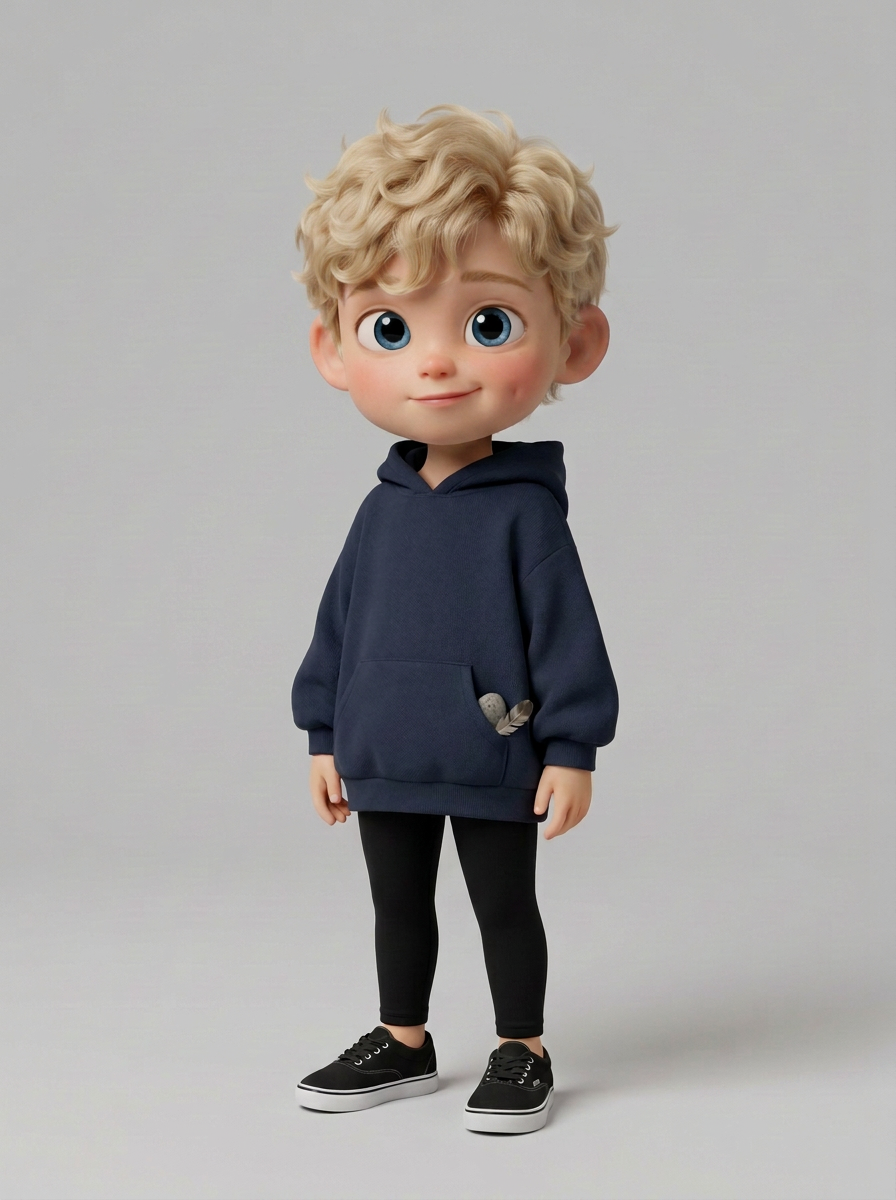
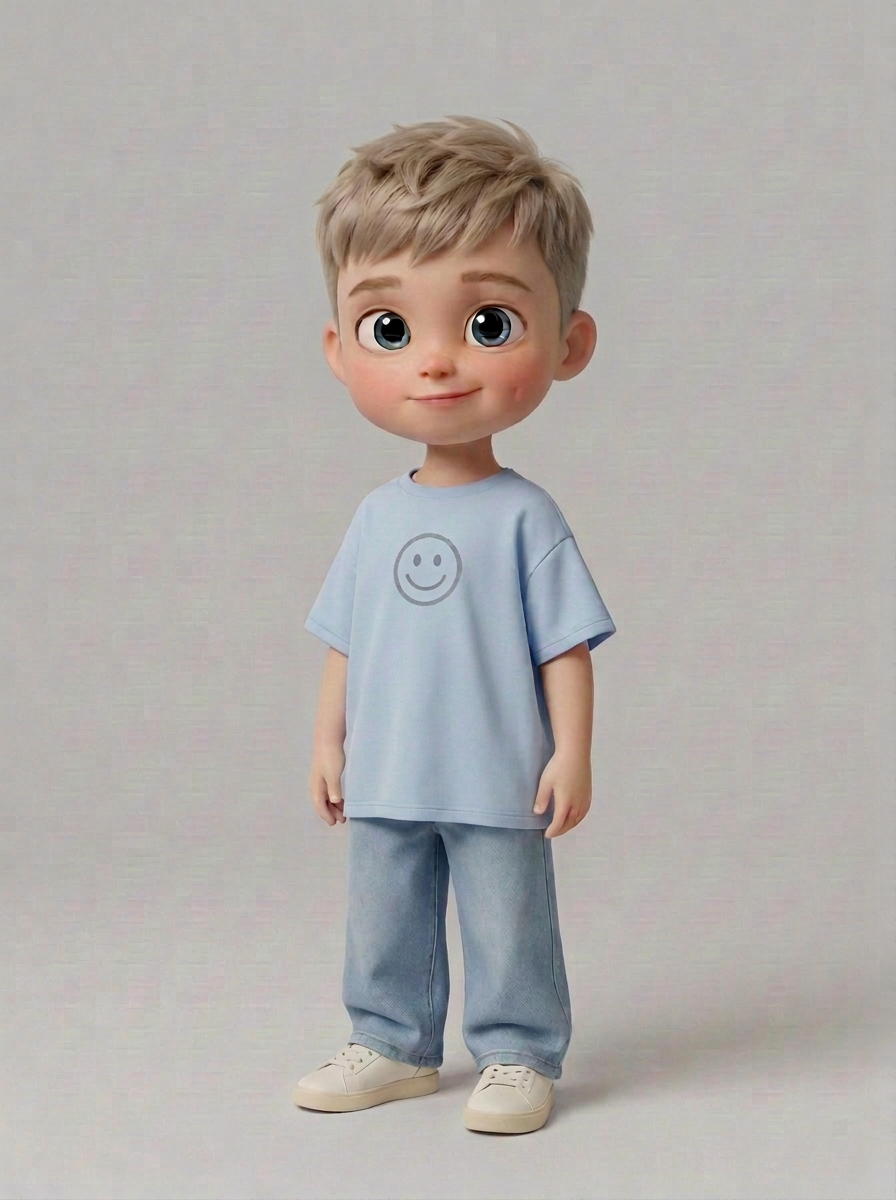
Kanon Olka wersja 2: krótkie proste włosy i koszulka baby blue
Nowe obrazy kanoniczne (kanon, obrót, miny) i przepisana sekcja Runway w karcie:
inne identyfikatory zadań, prompt bazowy pod nowy wygląd, historia obu wersji
i stan referencji (@olek_v1 zostawione na wszelki wypadek).

Poprawki wynikające ze zmiany: w indeksie postaci kapelusz i czapka są opisane
jako garderoba spoza kanonu, a w karcie Zuzi zniknęło porównanie jej włosów
do włosów Olka, bo Olek nie ma już loków.

Changed region(s): [[0.3125, 0.3392, 0.7188, 0.9558], [0.3125, 0.0925, 0.6875, 0.3392], [0.5938, 0.3083, 0.6562, 0.3392]]

diff --git a/postacie/olek/olek.md b/postacie/olek/olek.md
@@ -15,14 +15,22 @@ Najwyższy z grupy, spokojny obserwator z kieszeniami pełnymi skarbów, który 
 ## Wygląd
 
 - Najwyższy z czwórki, szczupły.
-- Blond włosy, delikatnie kręcone: krótkie boki, dłuższa góra, loczki z przodu, często w „artystycznym nieładzie”.
-- Owalna twarz, niebieskie oczy, czasem rumieńce, dołeczek w lewym policzku.
+- Włosy krótkie i proste, w chłodnym jasnym blondzie: krótko ścięte boki i tył, krótsza teksturowana góra zaczesana do przodu.
+- Owalna twarz, niebieskie oczy, czasem rumieńce, dołeczek w lewym policzku. Uszy przylegają do głowy.
 
 ## Ubiór
 
-- Czarne trampki typu vans (stały element).
-- Czarne legginsy i szeroka bluza z kapturem albo luźna koszulka oversize, czasem „cool dres” (spodnie plus bluza).
-- Czapka z daszkiem lub kapelusz typu bucket (stały element).
+**Strój kanoniczny** (to, co widać na `olek-kanon.png`, obowiązuje w odcinkach):
+
+- Luźna koszulka oversize w kolorze baby blue, z małym szarym nadrukiem buźki na piersi, wypuszczona na spodnie.
+- Jasne jeansy z szeroką prostą nogawką.
+- Jasne, kremowe trampki low-top, bez logo.
+
+**Z karty od autorki** (garderoba poza kanonem, do wariantów i innych scen):
+
+- Czarne trampki typu vans.
+- Czarne legginsy i szeroka bluza z kapturem, czasem „cool dres” (spodnie plus bluza).
+- Czapka z daszkiem lub kapelusz typu bucket.
 - Ulubione kolory: czarny, stonowane, niebieski, zielony.
 
 ## Co lubi robić
@@ -94,7 +102,7 @@ Katalog postaci w Runway, projekt **fairyTale** (konto Piotr, team `parciszewski
 
 | Referencja | Co to jest | Plik w repo | Asset w projekcie |
 |---|---|---|---|
-| `@olek` | obraz kanoniczny: cała sylwetka, trzy czwarte, neutralne tło, bez nakrycia głowy | `olek-kanon.png` | `olek-kanon` |
+| `@olek` | obraz kanoniczny: cała sylwetka, na wprost, neutralne tło, bez nakrycia głowy | `olek-kanon.png` | `olek-kanon` |
 | `@olek_obrot` | obrót: przód, bok, tył | `olek-obrot.png` | `olek-obrot` |
 | `@olek_miny` | plansza sześciu min: spokój z dołeczkiem, ciekawość, „Ej, patrzcie!”, namysł, smutek, mina niejadka | `olek-miny.png` | `olek-miny` |
 
@@ -102,20 +110,28 @@ Nazwy referencji w Runway nie mogą mieć myślników (Runway je wycina), stąd 
 
 **Zasada.** Każdy nowy obraz lub ujęcie z Olkiem generuje się z referencją `@olek` (do scen zbiorowych także z `@olek_obrot`), nigdy z samego opisu tekstowego. Obrót i miny powstały z kanonu.
 
-**Nakrycie głowy.** Kanon jest bez czapki (decyzja z 2026-09-09). Karta mówi, że czapka z daszkiem lub kapelusz bucket to stały element; do scen w czapce trzeba osobnej referencji (do zrobienia, gdy autorka potwierdzi, kiedy Olek ją nosi).
+**Nakrycie głowy.** Kanon jest bez czapki (decyzja z 2026-09-09). Karta od autorki mówi, że czapka z daszkiem lub kapelusz bucket to stały element; do scen w czapce trzeba osobnej referencji (do zrobienia, gdy autorka potwierdzi, kiedy Olek ją nosi).
 
 **Identyfikatory zadań Runway** (do użycia w MCP jako `referenceImages[].taskId`):
 
-- kanon: `1a3f952d-c1d5-4eea-9cc5-53020c231356`
-- obrót: `bab0d9a5-9f4a-4571-8232-49155598ec59`
-- miny: `73c665e3-bfd7-4c46-8b0e-8bbd0c740701`
+- kanon: `6b9565a1-8baf-47f7-b3d8-09cd6997a233`
+- obrót: `1beca44d-4b8a-4509-a123-e801236638a7`
+- miny: `f61c436c-b65f-4c2b-9722-91cff87d1ba4`
 
-Model: Nano Banana Pro. Olek nie miał obrazu bazowego od autorki; kanon powstał z opisu w karcie z kanonem Ady jako wzorcem stylu, najpierw w kapeluszu bucket (zaakceptowany wygląd), potem bez kapelusza (wersja kanoniczna, wariant B z dwóch).
+Model: Nano Banana Pro.
 
 **Prompt bazowy** (po angielsku, do odtworzenia kanonu lub opisu Olka w nowych ujęciach; zawsze razem z referencją):
 
-> @olek, a 4-and-a-half-year-old boy in the same 3D animated style as @ada, the tallest of his friends, slim. Fair light skin with slight rosy cheeks and a dimple in his left cheek. Light blonde, softly curly hair: short on the sides, longer on top, loose curls falling onto his forehead in an artful mess. Oval face, blue eyes. Loose oversized dark navy-blue hoodie, black leggings, plain black low-top canvas skate sneakers with white soles. One hoodie pocket bulges with small treasures (a pebble and a feather peeking out). No logos, no text.
+> @olek, a 4-and-a-half-year-old boy in the same 3D animated style as @ada, the tallest of his friends, slim. Fair light skin with slightly rosy cheeks and a dimple in his left cheek. Oval face, blue eyes, ears close to the head. Short straight hair in a cool light blonde: cropped short at the sides and back, short textured top brushed forward. Loose oversized baby blue t-shirt with a small soft grey smiley print on the chest, worn untucked over the jeans. Light wide-leg jeans with a clean even wash. Off-white low-top sneakers with cream soles. No hat, no logos, no text.
 
-Referencje `@olek`, `@olek_obrot`, `@olek_miny` są w panelu References projektu (dodane przez Chrome 2026-09-09). Assety w folderze projektu nazywają się `olek-kanon`, `olek-obrot`, `olek-miny`.
+**Historia.**
 
-**Historia.** Warianty w kapeluszu i wariant A bez kapelusza (2026-09-09) zostały odrzucone i usunięte z Runway.
+- **Wersja 1 (2026-09-09, wycofana).** Olek nie miał obrazu bazowego od autorki; kanon powstał z opisu w karcie, z kanonem Ady jako wzorcem stylu. Blond loki, granatowa bluza z kapturem z piórkiem w kieszeni, czarne legginsy, czarne trampki vans. Warianty w kapeluszu bucket i wariant A bez kapelusza zostały odrzucone i usunięte z Runway.
+- **Wersja 2 (2026-09-09, obowiązująca).** Przerobiona na podstawie zdjęcia referencyjnego od autorki, w pięciu podejściach. Zmiany wobec wersji 1: włosy krótkie i proste zamiast loków, chłodniejszy blond, uszy przy głowie, koszulka baby blue z buźką zamiast bluzy, jasne szerokie jeansy zamiast legginsów, jasne trampki zamiast czarnych. Zdjęcie nie zostało wysłane do Runway: rysy i fryzura zostały opisane słowami w promptcie, więc podobieństwo jest przybliżone.
+
+**Stan referencji w Runway** (2026-09-09). Panel References nie pozwala podmienić obrazu w istniejącej referencji, więc stare zostały przemianowane, a nowe dodane pod właściwymi nazwami:
+
+- `@olek`, `@olek_obrot`, `@olek_miny` — wersja 2, obowiązująca.
+- `@olek_v1`, `@olek_obrot_v1`, `@olek_miny_v1` — wersja 1, zostawione na wszelki wypadek. Nie używać w promptach; do skasowania, gdy autorka potwierdzi, że wersja 2 się broni w scenach.
+
+**Do zrobienia.** Workflow `01 scena 1 - kuchnia u Olka` ma wpięty stary asset kanonu `e35e665f-7131-4122-8a4c-3f925ecc52a9` (patrz `odcinki/01 Kto puścił zajączka/runway.md`). Trzeba go podmienić na nowy, inaczej scena 1 wygeneruje się ze starym wyglądem.

diff --git a/postacie/README.md b/postacie/README.md
@@ -52,7 +52,7 @@ Rodzice czwórki i panie z przedszkola (Madzia, Kasia) są opisani w `dorośli.m
 
 - Ada: spinka z grzywką na bok, białe buty z kolorowymi paskami.
 - Antek: ulubiona czapka, czarne trampki.
-- Olek: kapelusz bucket lub czapka z daszkiem, czarne trampki, kieszenie pełne skarbów (kamyki, patyczki, kapsle, piórka).
+- Olek: kieszenie pełne skarbów (kamyki, patyczki, kapsle, piórka). Kapelusz bucket lub czapka z daszkiem są w karcie od autorki, ale kanon wyglądu jest bez nakrycia głowy.
 - Zuzia: dwa warkoczyki, kolorowe spinki po obu stronach, biała kotka Luna (ragdoll, niebieskie oczy), różowe trampki w truskawki.
 
 ## Świat wokół postaci

diff --git a/postacie/zuzia/zuzia.md b/postacie/zuzia/zuzia.md
@@ -15,7 +15,7 @@ Najstarsza w grupie, cicha dziewczynka z dwoma warkoczykami i białą kotką Lun
 ## Wygląd
 
 - Wzrost jak Olek, szczupła.
-- Jasne blond włosy do ramion, delikatnie kręcone (jak u Olka). Rzadko rozpuszczone, najczęściej dwa warkoczyki lekko za ramiona.
+- Jasne blond włosy do ramion, delikatnie kręcone. Rzadko rozpuszczone, najczęściej dwa warkoczyki lekko za ramiona.
 - Owalna twarz, niebieskie oczy, mały zaokrąglony nosek.
 - Kolorowe spinki po obu stronach głowy (stały element).
 
